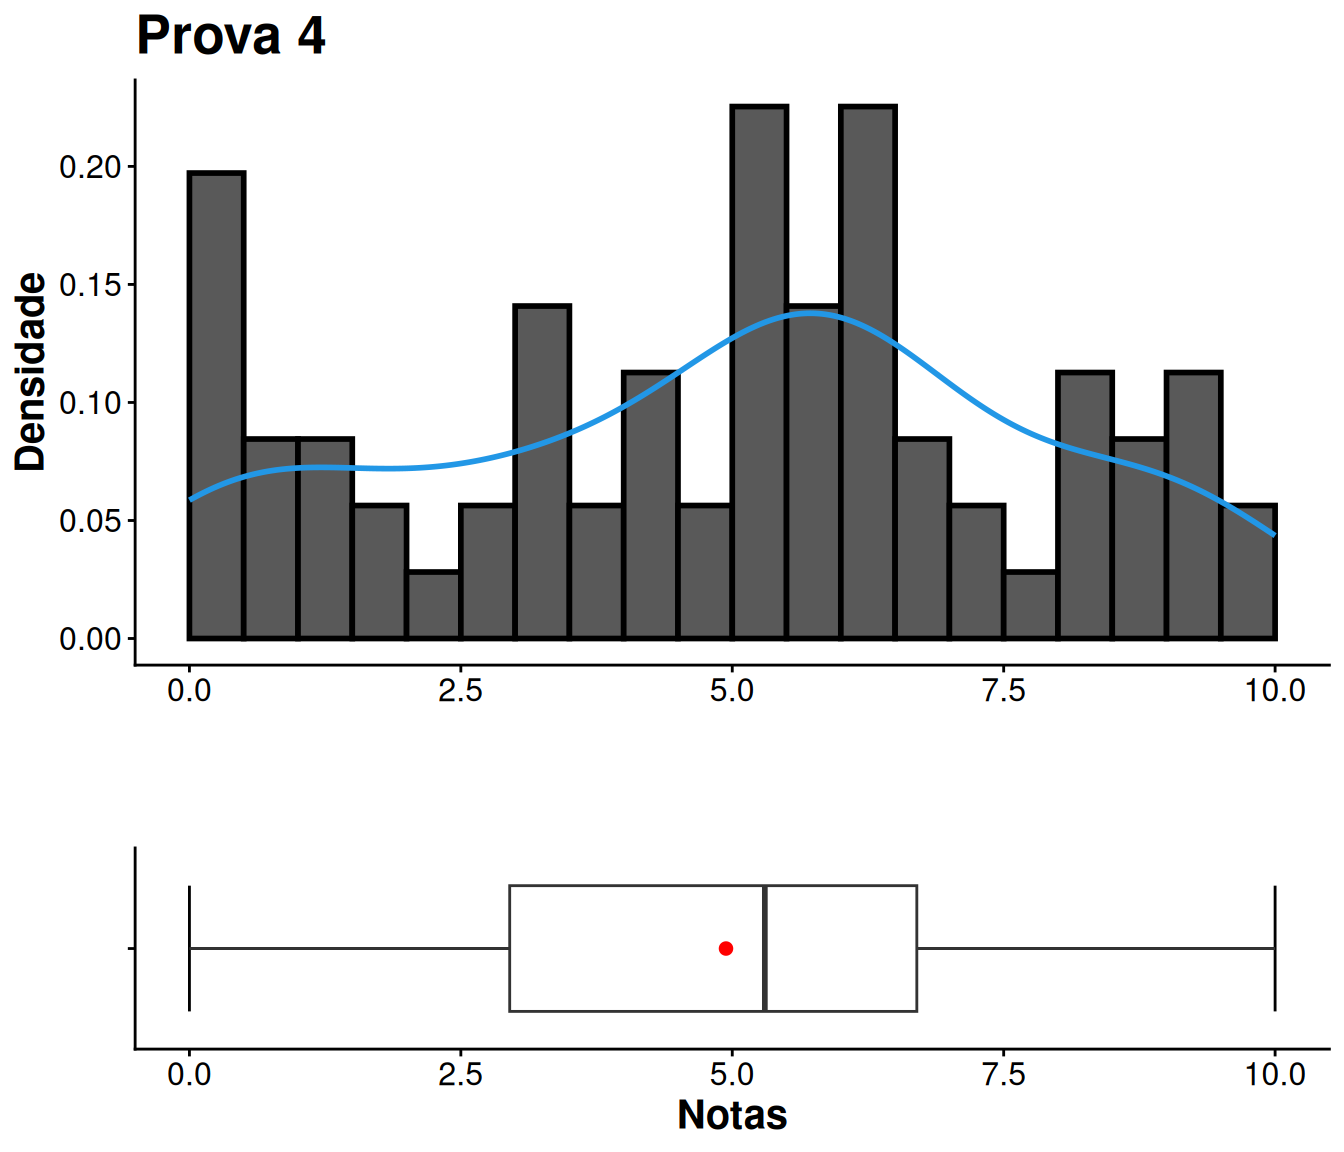
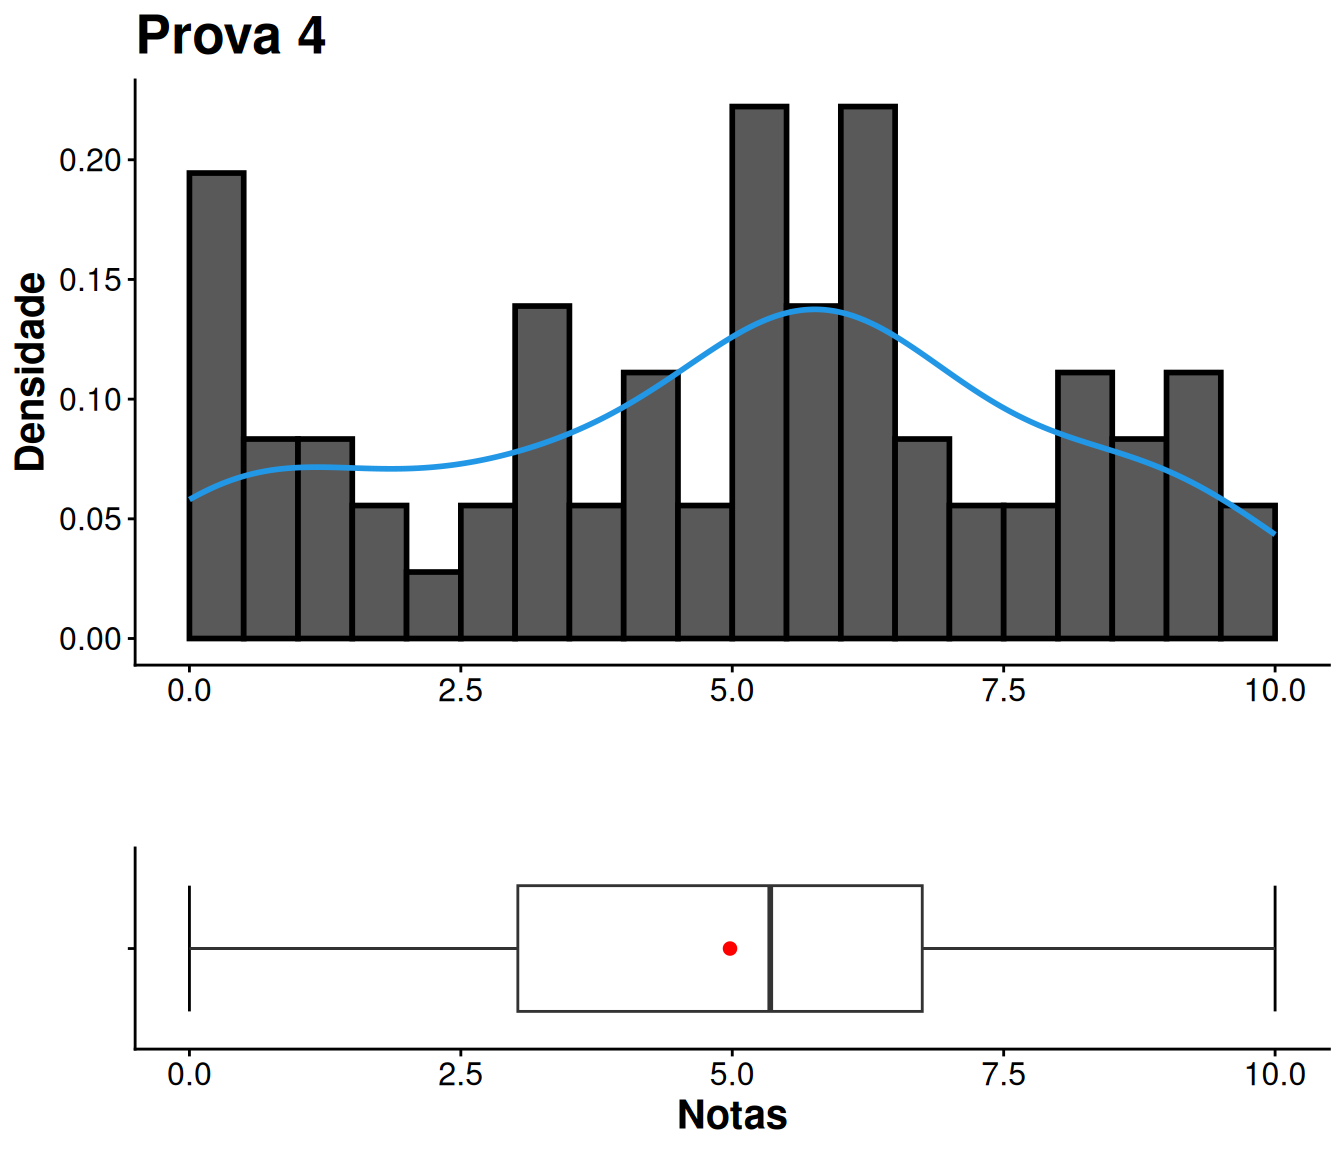
Enviando notas

diff --git a/notas.html b/notas.html
@@ -578,9 +578,9 @@ Prof. Dr. Paulo Justiniano Ribeiro Junior</div></h3>
 <td align="right">6.7</td>
 <td align="right">8.3</td>
 <td align="right">1.1</td>
-<td align="right">NA</td>
+<td align="right">7.6</td>
 <td align="right">18</td>
-<td align="right">4.0</td>
+<td align="right">5.9</td>
 <td align="left">EXAME</td>
 </tr>
 <tr class="even">
@@ -1730,14 +1730,14 @@ class="section level1 tabset tabset-fade tabset-pills">
 <div id="prova-4" class="section level2">
 <h2>PROVA 4</h2>
 <center>
-<table style="width:75%;">
+<table style="width:78%;">
 <colgroup>
 <col width="6%" />
 <col width="12%" />
-<col width="9%" />
+<col width="11%" />
 <col width="11%" />
 <col width="13%" />
-<col width="8%" />
+<col width="9%" />
 <col width="12%" />
 </colgroup>
 <thead>
@@ -1753,12 +1753,12 @@ class="section level1 tabset tabset-fade tabset-pills">
 </thead>
 <tbody>
 <tr class="odd">
-<td align="center">71</td>
+<td align="center">72</td>
 <td align="center">0</td>
-<td align="center">2.95</td>
-<td align="center">4.942</td>
-<td align="center">5.3</td>
-<td align="center">6.7</td>
+<td align="center">3.025</td>
+<td align="center">4.979</td>
+<td align="center">5.35</td>
+<td align="center">6.75</td>
 <td align="center">10</td>
 </tr>
 </tbody>
@@ -1779,8 +1779,8 @@ class="section level1 tabset tabset-fade tabset-pills">
 <tbody>
 <tr class="odd">
 <td align="center">10</td>
-<td align="center">8.226</td>
-<td align="center">2.868</td>
+<td align="center">8.208</td>
+<td align="center">2.865</td>
 </tr>
 </tbody>
 </table>
@@ -2069,8 +2069,8 @@ class="section level1 tabset tabset-fade tabset-pills">
 <td align="center">108</td>
 <td align="center">0</td>
 <td align="center">1.275</td>
-<td align="center">3.062</td>
-<td align="center">2.3</td>
+<td align="center">3.071</td>
+<td align="center">2.35</td>
 <td align="center">3.4</td>
 <td align="center">9.7</td>
 </tr>
@@ -2092,8 +2092,8 @@ class="section level1 tabset tabset-fade tabset-pills">
 <tbody>
 <tr class="odd">
 <td align="center">9.7</td>
-<td align="center">6.755</td>
-<td align="center">2.599</td>
+<td align="center">6.745</td>
+<td align="center">2.597</td>
 </tr>
 </tbody>
 </table>
